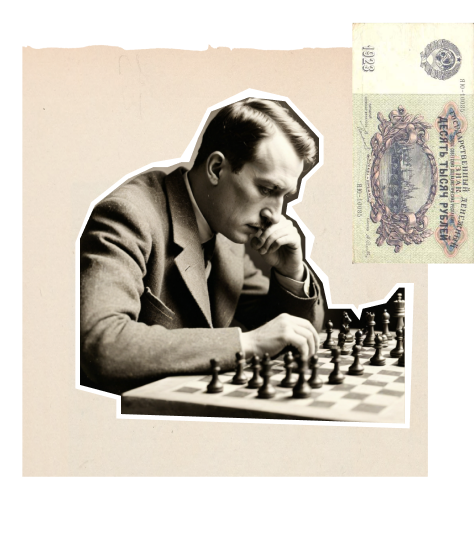
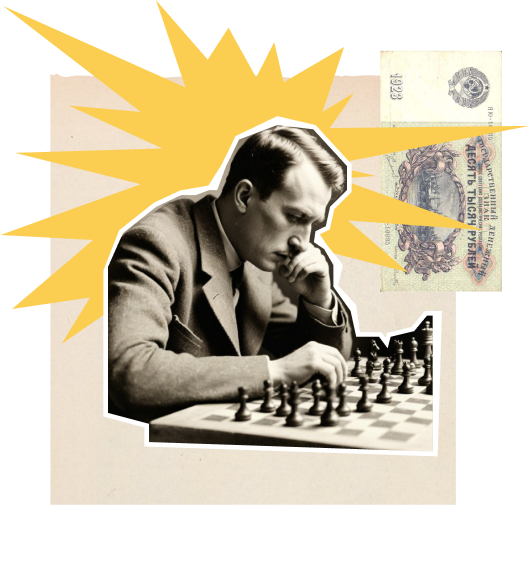
Animated tournament image

diff --git a/src/styles/blocks/tournament.scss b/src/styles/blocks/tournament.scss
@@ -2,6 +2,8 @@
 
 .tournament {
   padding-top: clamp(48px, 12vw, 80px);
+  padding-bottom: $padding-container;
+  overflow: hidden;
 
   &__text, &__idea-image-wrapper::before {
     color: $dark-gray;
@@ -78,6 +80,50 @@
     &-image {
       width: 100%;
       flex: 0 1 474px;
+      &-wrapper {
+        position: relative;
+      }
+      &-front {
+        position: absolute;
+        width: calc(100% + 4rem);
+        height: 100%;
+        top: 0;
+        left: -2rem;
+
+        background-repeat: no-repeat;
+        background-image:
+          url('@images/tournament/hand.png'),
+          url('@images/tournament/chess.png');
+
+        background-position:
+          89% 100%,
+          5% 96%;
+
+        background-size:
+          52%,
+          47%;
+
+        pointer-events: none;
+        animation: front-animation linear infinite 3s;
+        
+        @keyframes front-animation {
+          0% {
+            background-position:
+              89% 100%,
+              5% 96%;
+          }
+          50% {
+            background-position:
+              95% 100%,
+              5% 100%;
+          }
+          100% {
+            background-position:
+              89% 100%,
+              5% 96%;
+          }
+        }
+      }
     }
 
     &-content {

diff --git a/src/index.html b/src/index.html
@@ -85,9 +85,12 @@
         </div>
       </article>
       <article class="tournament__session">
-        <img class="tournament__session-image"
-          src="assets/images/tournament/man-playing-chess.png"
-          alt="">
+        <div class="tournament__session-image-wrapper">
+          <div class="tournament__session-image-front"></div>
+          <img class="tournament__session-image"
+            src="assets/images/tournament/man-playing-chess.png"
+            alt="">
+        </div>
         <div class="tournament__session-content">
           <div class="tournament__session-text">
             <p class="tournament__text">

diff --git a/src/styles/blocks/stages.scss b/src/styles/blocks/stages.scss
@@ -1,6 +1,7 @@
 @use '../vars/' as *;
 
 .stages {
+  margin-top: calc(0px - $padding-container);
   overflow: hidden;
   &__title {
     font-size: 0;
